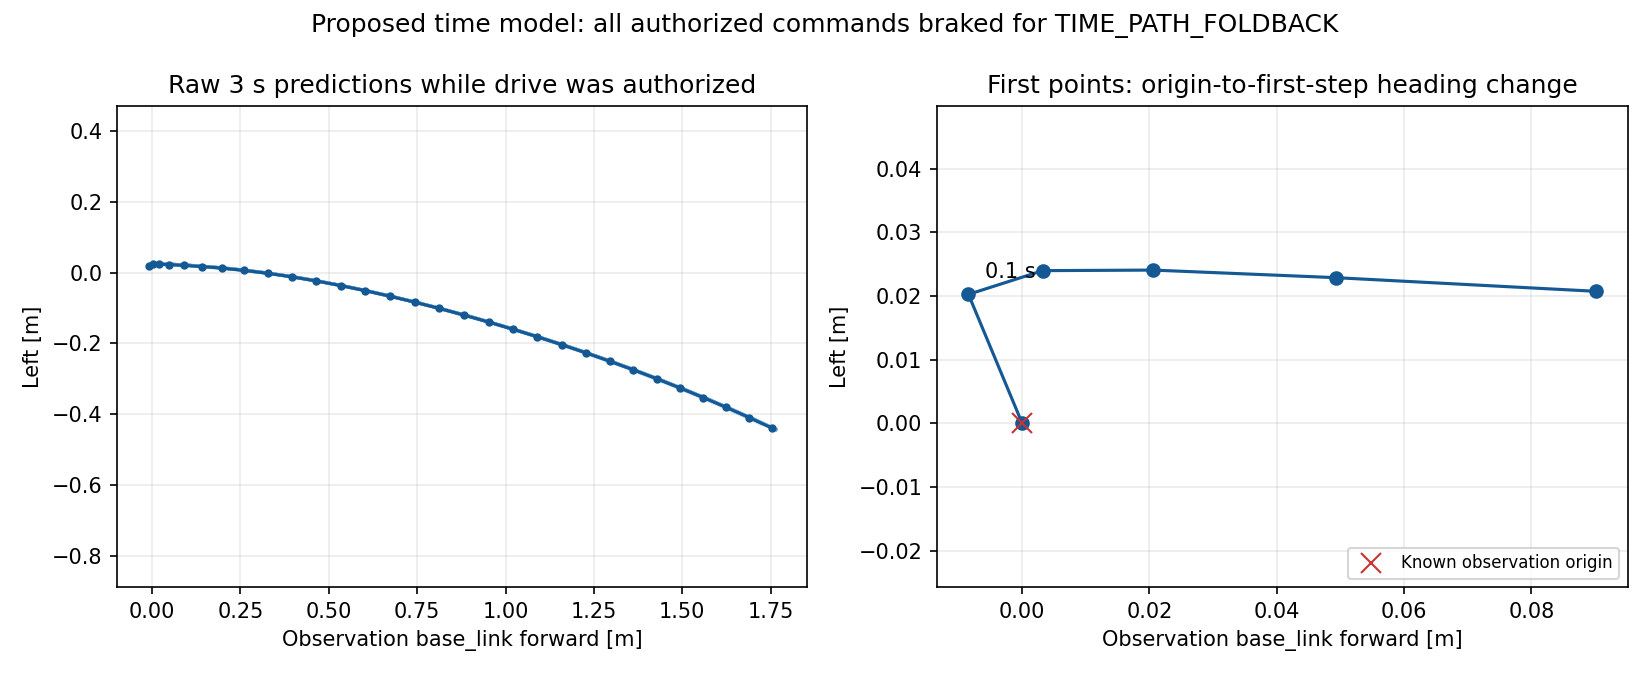
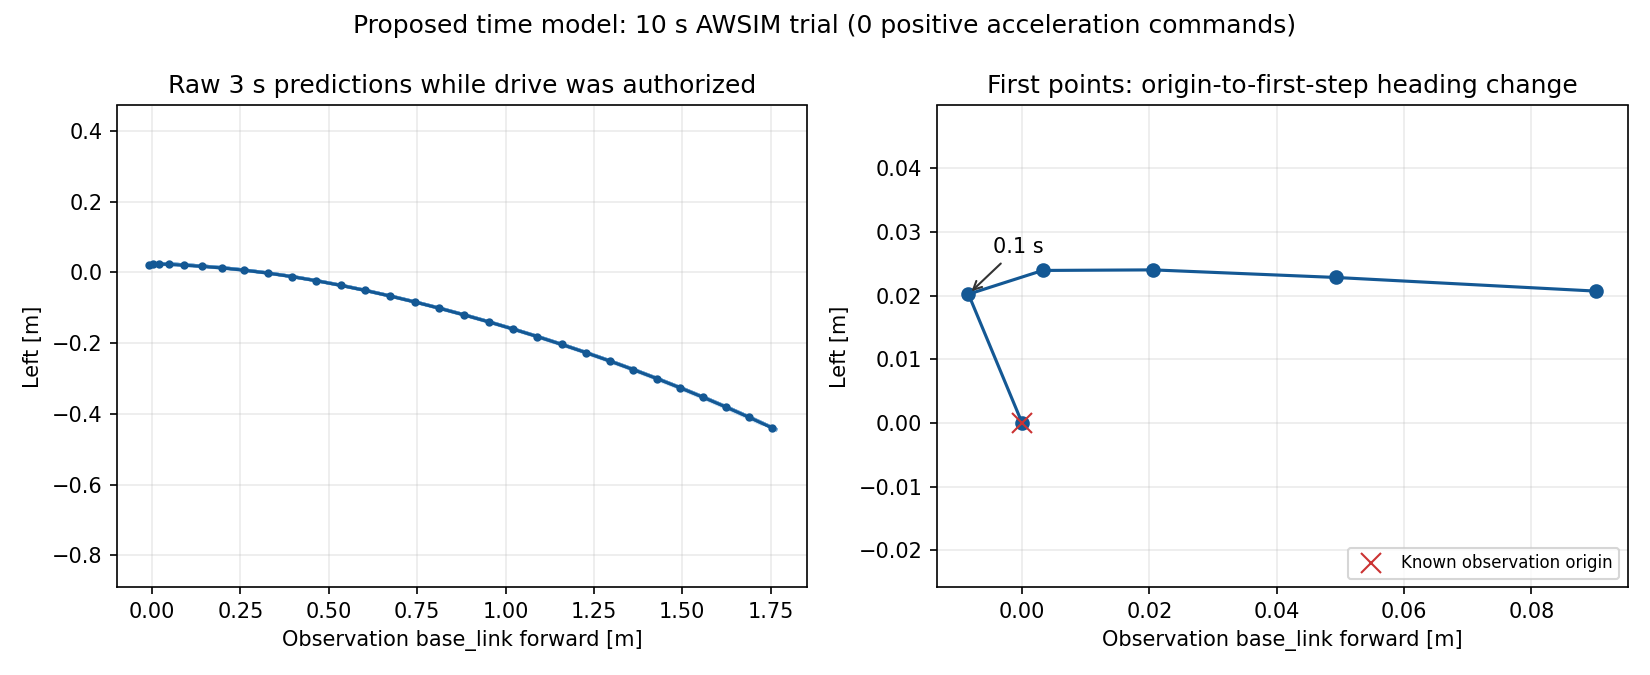
Finalize WSL validation and AWSIM trial evidence

diff --git a/docs/time_path_ros_awsim_20260913.md b/docs/time_path_ros_awsim_20260913.md
@@ -55,7 +55,7 @@ float32・TF32無効で、未来3秒・0.1秒刻みの30 XY点を予測した。
 各観測のbase_link座標で重ねた図であり、地図上の走行軌跡ではない。
 制御拒否行には採用plan IDが残らないため、201指令と90経路の厳密な一対一対応は未再現。
 実指令の停止理由と全90経路の形状集計が一致することを確認した。
-実数値1経路を[回帰fixture](../tests/fixtures/time_path/near_origin_foldback.json)として保存し、同じ停止理由と予測列の非改変をテストする。これは予測であり、正解教師ではない。
+実数値1経路を[回帰fixture](../tests/fixtures/time_path/near_origin_foldback.json)として保存し、WSLの回帰テストで同じ停止理由と予測列の非改変を確認した。これは予測であり、正解教師ではない。
 
 ## ROS実装
 
@@ -108,19 +108,23 @@ checkpoint: `/home/thistle/e2e_autonomous/runs/time_p1_20laps_20260913/command_o
[1 lines of base64/hex data omitted]
 
 - WSLの入力一致・時刻・座標・制御テスト: 20 passed。
-- `fc381a2` のWSL全体テスト: 2,015 passed / 4 skipped / 63 warnings、128.44秒。
+- 最終コード `0fcb939` のWSL全体テスト: **2,016 passed / 4 skipped / 63 warnings、102.70秒**。
+  [全体テストログ](evidence/time_path_ros_awsim_20260913/full_0fcb939.log)。4 skipは既存のOSQP、JSON Schema関連2件、optional公式package。
 - 通常RViz helperのWSLテスト: 2 passed。ROS node・実行helperのcompile確認完了。
 - 既存Humble imageで `aic_e2e_runtime` のcolcon build完了。
 - 隔離Humble: Path完全一致6件、合成oracleの正のshadow指令111件、plan失効brake 11件、clock停止brake 7件、vehicle publisher 0、両子process終了code 0。
   [結果](evidence/time_path_ros_awsim_20260913/humble_smoke_summary.json)は合成ROS接続試験で、モデルの走行性能ではない。
 - AWSIM直下20記録ファイルのSHA-256とサイズをホスト・Windows・native WSLで全件照合。[integrity.json](evidence/time_path_ros_awsim_20260913/integrity.json)。ネストしたAutoware出力はこの20件に含まない。
+- 最終WSL成果物5件のWindows転送も[SHA-256で照合](evidence/time_path_ros_awsim_20260913/final_transfer_verification.json)した。
 
 host root: `/home/graneple/e2e_autonomous/time_path_ros_20260913/`、生ログはその `codex-time-trial-03/`。
 WSL生ログ: `/home/thistle/e2e_autonomous/runs/time_path_ros_20260913/codex-time-trial-03/`。
 Windows参照コピー: `tmp/time_path_ros_20260913/codex-time-trial-03/`。
 Gitには小さい結果・図・fixtureを保存し、checkpoint・学習データ・rosbag・buildは追加していない。
 
-実行ROSソースは `1fe6043`（中核node/runtimeは `fc381a2` と同一）、trial03のhost helperは `d21e3ece`、WSL初回集計は `a713a15d`。
+実行ROSソースは `1fe6043`（中核node/runtimeは `fc381a2` と同一）、trial03のhost helperは `d21e3ece`。
+WSL初回集計は `a713a15d`、保存した最終図・集計は `0fcb939` の `evaluation03_r1`。
+最終集計のcode SHA-256はsummaryに記録した。再集計でも201件の拒否・90経路の先頭折れを確認した。
 配布archiveはWindows→ホストでSHA-256照合済み。
 
 | archive | SHA-256 |
@@ -145,7 +149,7 @@ bash tools/with_wsl_training_lock.sh env PYTHONPATH=src .venv/bin/python -m pyte
 bash tools/with_wsl_training_lock.sh env PYTHONPATH=src .venv/bin/python \
   tools/evaluate_time_awsim_trial.py \
   --run /home/thistle/e2e_autonomous/runs/time_path_ros_20260913/codex-time-trial-03 \
-  --output /home/thistle/e2e_autonomous/runs/time_path_ros_20260913/evaluation03
+  --output /home/thistle/e2e_autonomous/runs/time_path_ros_20260913/evaluation03_r1
 ```
 
 指定ホストの準備済みdeploymentでHumble接続を再確認する例。outputは未使用名とする。
